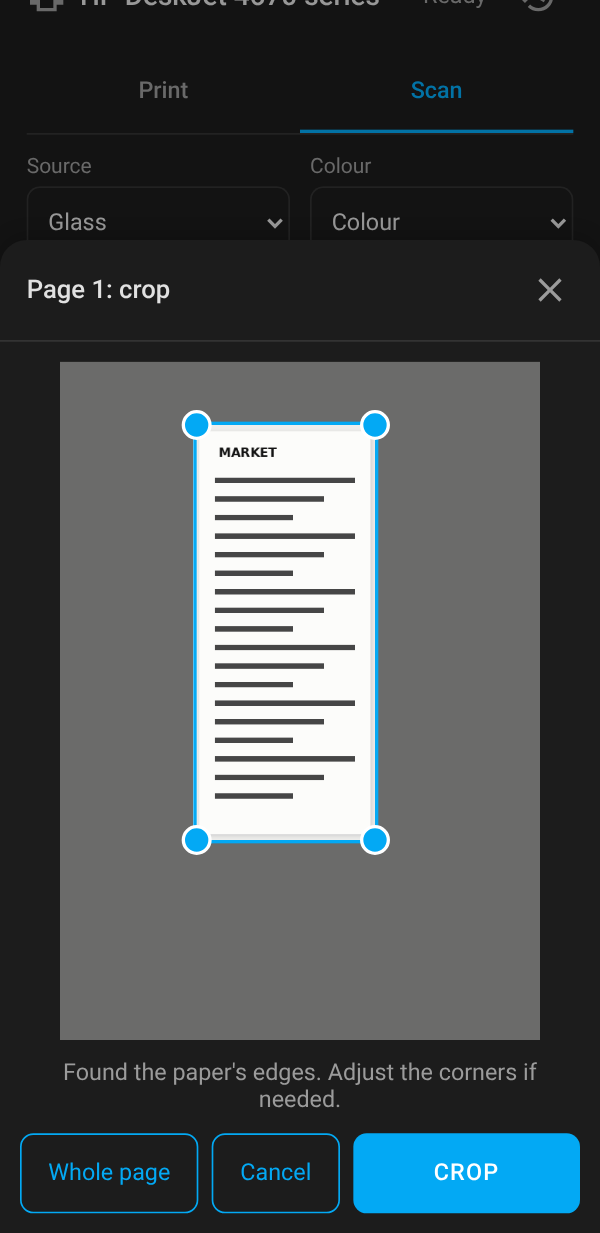
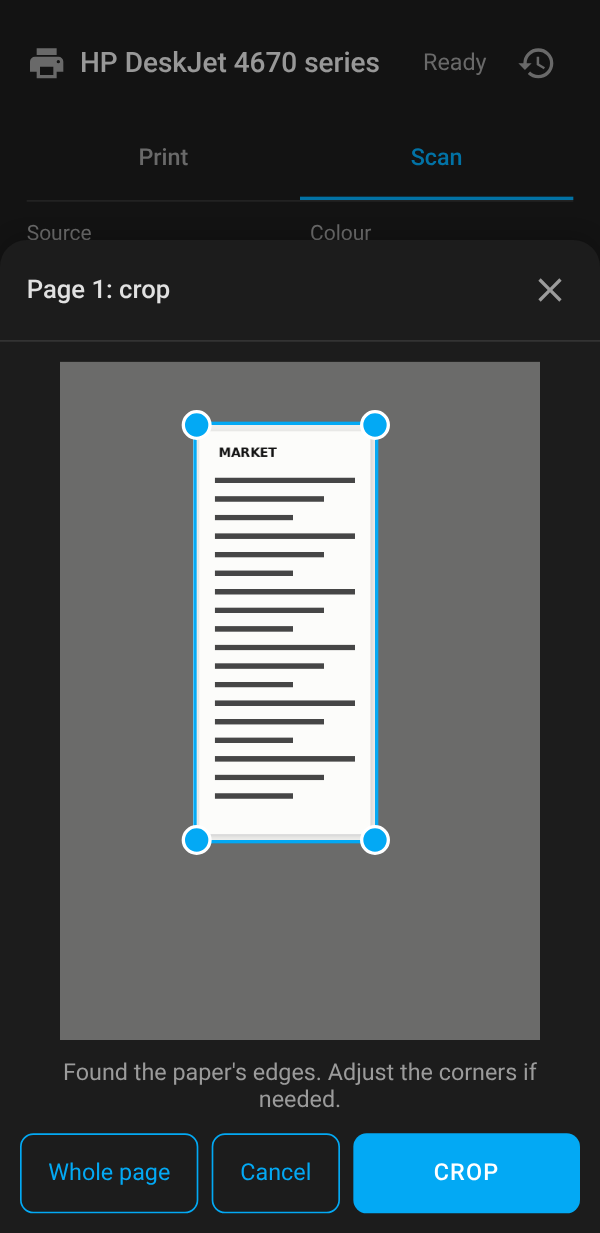
docs: README screenshots as two aligned images
The Marketplace and GitHub lined up the separate inline screenshots
differently (bottom-aligned, uneven sizes). scripts/screenshots.py now
also composes overview.png (Print tab, Scan tab, crop) and dialogs.png
(printer switcher, history, scans, preview), tops aligned on a
transparent background, and the README shows those two. The crop shot
shows the card from its top behind the dialog.

diff --git a/scripts/screenshots.py b/scripts/screenshots.py
@@ -109,6 +109,24 @@ def card_shot(page: Page, name: str) -> None:
     print("wrote", OUT / name)
 
 
+def compose(names: list[str], out: str, gap: int = 40) -> None:
+    """Shots side by side, tops aligned, on a transparent background.
+
+    One image renders the same in every README viewer (GitHub, the HA
+    Marketplace), unlike inline images that each viewer lines up its own way.
+    """
+    images = [Image.open(OUT / name).convert("RGBA") for name in names]
+    width = sum(i.width for i in images) + gap * (len(images) - 1)
+    height = max(i.height for i in images)
+    sheet = Image.new("RGBA", (width, height), (0, 0, 0, 0))
+    x = 0
+    for image in images:
+        sheet.paste(image, (x, 0))
+        x += image.width + gap
+    sheet.save(OUT / out, optimize=True)
+    print("wrote", OUT / out)
+
+
 def page_shot(page: Page, name: str) -> None:
     page.screenshot(path=str(OUT / name))
     print("wrote", OUT / name)
@@ -168,6 +186,8 @@ def run(chrome: str | None) -> None:
             page.locator(
                 'home-print-card [data-role="crop-frame"]:not([hidden])'
             ).wait_for()
+            # The dialog is fixed; show the card from its top behind it.
+            page.evaluate("window.scrollTo(0, 0)")
             page.wait_for_timeout(300)
             page_shot(page, "crop.png")
             page.unroute("**/api/home_print/**")
@@ -196,6 +216,10 @@ def run(chrome: str | None) -> None:
             page.wait_for_timeout(300)
             page_shot(page, "preview.png")
             browser.close()
+        compose(["card.png", "scan.png", "crop.png"], "overview.png")
+        compose(
+            ["printers.png", "history.png", "scans.png", "preview.png"], "dialogs.png"
+        )
     finally:
         server.shutdown()
 

diff --git a/README.md b/README.md
@@ -8,10 +8,7 @@ Print and scan with your network printer from a Home Assistant dashboard, wherev
 
 > **Early release.** Tested in code and against a real HP DeskJet 4670, not yet in daily use. Please open an issue when something breaks.
 
-<p>
-  <img src="docs/images/card.png" alt="Print tab: ink levels, Choose file and Copies, Two-sided and Colour, Pages, Print" width="300">
-  <img src="docs/images/scan.png" alt="Scan tab with a finished two-page scan: preview, name, Download, Add page, Delete" width="300">
-</p>
+![The Home Print card: the Print tab, the Scan tab with a finished scan, and cropping a scanned receipt](docs/images/overview.png)
 
 ## Features
 
@@ -49,13 +46,7 @@ show_ink: true        # optional
 - **History:** the clock icon opens your prints and scans. Tap an entry to preview it.
 - **Crop:** tap **Crop** under a scan, or the crop button on a page in the history preview. The frame starts on the paper's edges when it finds them, and you can drag its corners. What's outside the frame is removed from the file, not just hidden.
 
-<p>
-  <img src="docs/images/printers.png" alt="Printer switcher open with three printers and their status" width="200">
-  <img src="docs/images/history.png" alt="History, Prints tab" width="200">
-  <img src="docs/images/scans.png" alt="History, Scans tab" width="200">
-  <img src="docs/images/preview.png" alt="Preview of a printed file" width="200">
-  <img src="docs/images/crop.png" alt="Cropping a scanned receipt: the frame sits on the paper's edges" width="200">
-</p>
+![The printer switcher, the print and scan history, and a page preview](docs/images/dialogs.png)
 
 ## Options
 
